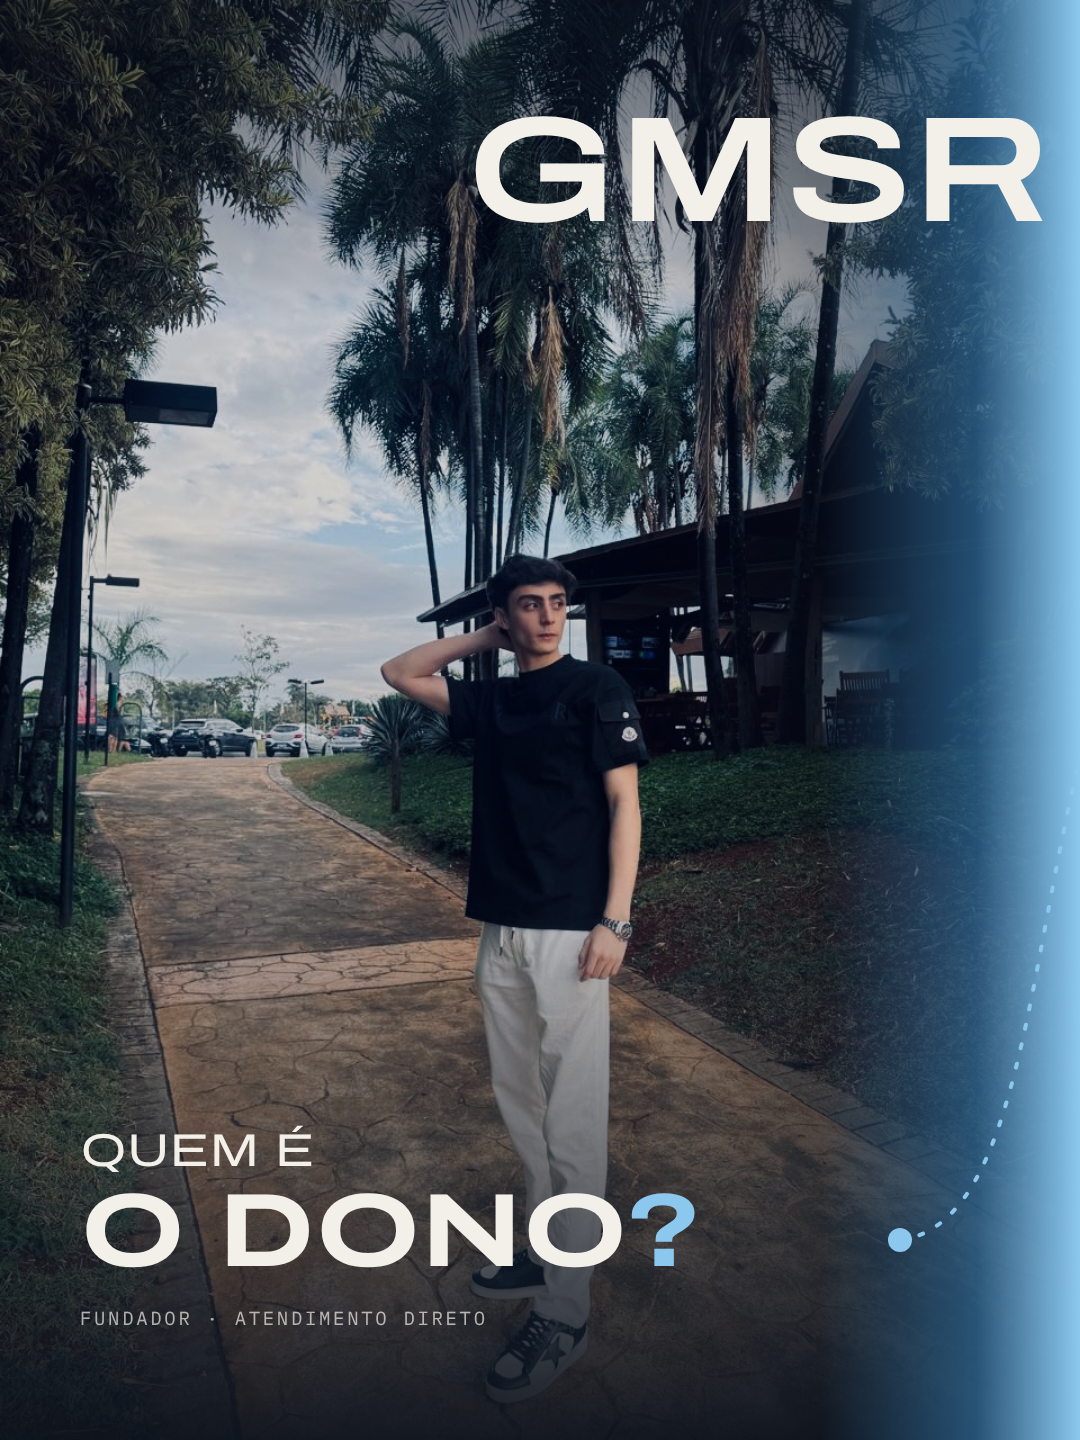
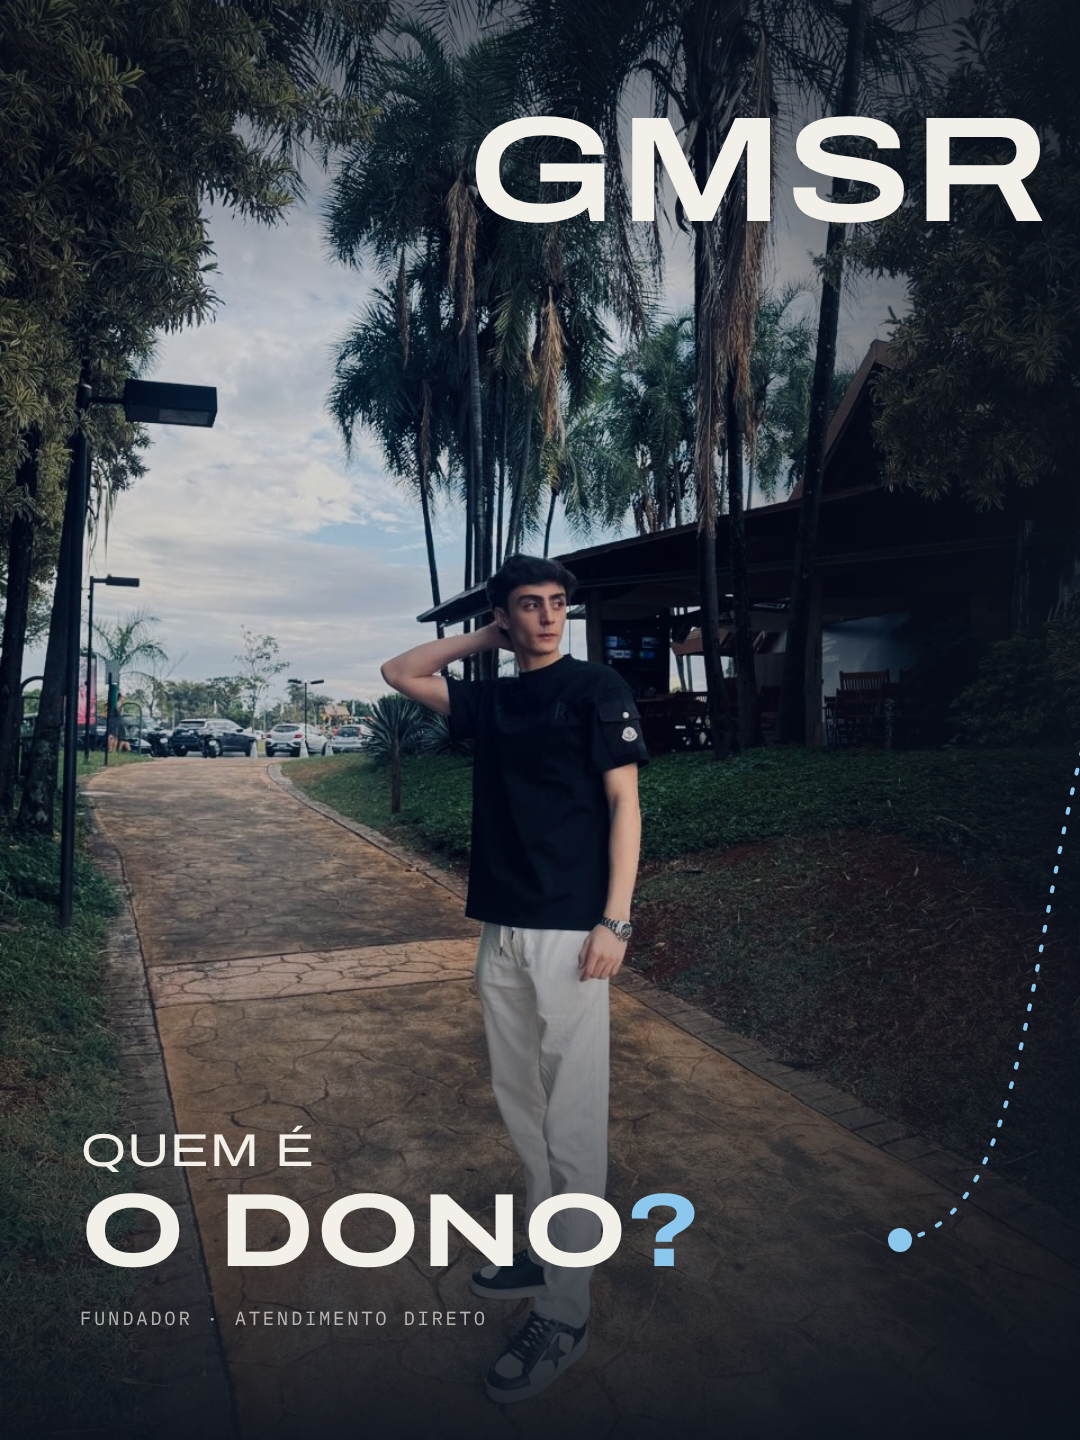
"Quem é o dono": texto do Gabriel resumido no slide 2; grade sem degradê
Claude-Session: https://claude.ai/code/session_018Rxm36svjxPgU3W8TLCnbb

Changed region(s): [[0.7944, 0.0, 1.0, 1.0]]

diff --git a/posts-grade/04-carrossel-dono/slides.html b/posts-grade/04-carrossel-dono/slides.html
@@ -127,7 +127,6 @@
 <template id="art">
   <div class="pano">
     <div class="photo blur"><img src="../../assets/fotos/dono-blur.jpg" alt=""></div>
-    <div class="edge3"></div>
 
     <!-- rota tracejada que liga o meio à direita -->
     <svg class="route" viewBox="0 0 2160 1440">
@@ -168,9 +167,11 @@
 <section class="slide tile"><div class="c3" style="background:radial-gradient(70% 55% at 30% 40%,#2C6BAE 0%,#173F6D 45%,#0B111B 100%)">
   <div class="top"><img src="../../assets/logo/gmsr-mono-branco.png" alt=""><span class="mono counter"></span></div>
   <div class="big" style="color:rgba(140,200,238,.16)">BSB</div><div class="lbl mono" style="color:#BFDDF2">A curadoria</div>
-  <div class="body" style="top:560px;right:80px">
+  <div class="body" style="top:470px;right:80px">
     <div class="w h" style="font-size:96px">Prazer,<br><em style="color:#BFDDF2">Gabriel.</em></div>
-    <p style="color:rgba(243,240,233,.88)">A GMSR é uma <b>curadoria de Brasília.</b> O Gabriel teve a ideia de criar a loja para inovar e trazer <b>peças exclusivas</b>, que não ficam disponíveis por muito tempo.</p>
+    <p style="color:rgba(243,240,233,.88)">Sou o fundador da <b>GMSR Maison</b>, marca criada em Brasília para oferecer uma experiência diferente no universo do luxo.</p>
+    <p style="color:rgba(243,240,233,.88)">Mais do que uma loja: uma <b>curadoria exclusiva</b>, com atenção a cada detalhe e atendimento personalizado.</p>
+    <p style="color:#F3F0E9;font-family:Bodoni;font-style:italic;font-size:40px;line-height:1.3;margin-top:44px">Para quem valoriza mais do que produtos: <span style="color:#BFDDF2">valoriza experiências.</span></p>
   </div>
   <div class="foot mono" style="color:rgba(243,240,233,.7)"><span>15°47′ S · 47°52′ O · Brasília</span><span>GMSR Maison</span></div>
 </div></section>

diff --git a/site-data.js b/site-data.js
@@ -19,7 +19,7 @@ window.VERSIONS = [
         "n": 2,
         "dir": "posts-grade/04-carrossel-dono",
         "title": "Carrossel · Quem é o dono",
-        "caption": "Quem é o dono da GMSR? ◆\n\nPrazer, Gabriel. A GMSR é uma curadoria de Brasília: ele teve a ideia de criar a loja para inovar e trazer peças exclusivas, que não ficam disponíveis por muito tempo.\n\n📩 Fale com a gente: @gmsr_maison\n\n.\n.\n.\n#gmsrmaison #brasilia #curadoria #boutique #modamasculina",
+        "caption": "Quem é o dono da GMSR? ◆\n\nPrazer, Gabriel. Sou o fundador da GMSR Maison, marca criada em Brasília para oferecer uma experiência diferente no universo do luxo.\n\nMais do que uma loja: uma curadoria exclusiva, com atenção a cada detalhe e atendimento personalizado.\n\nA GMSR Maison nasceu para quem valoriza mais do que produtos: valoriza experiências.\n\n📩 Fale com a gente: @gmsr_maison\n\n.\n.\n.\n#gmsrmaison #brasilia #curadoria #boutique #modamasculina",
         "slides": [
           "posts-grade/04-carrossel-dono/png/slide-01.png",
           "posts-grade/04-carrossel-dono/png/slide-02.png"

diff --git a/posts-grade/03-carrossel-processo/slides.html b/posts-grade/03-carrossel-processo/slides.html
@@ -106,7 +106,6 @@
 <template id="art">
   <div class="pano">
     <div class="photo blur"><img src="../../assets/fotos/dono-blur.jpg" alt=""></div>
-    <div class="edge3"></div>
 
     <!-- rota tracejada que liga o meio à direita -->
     <svg class="route" viewBox="0 0 2160 1440">

diff --git a/posts-grade/02-grade-mapa-processo/slides.html b/posts-grade/02-grade-mapa-processo/slides.html
@@ -84,7 +84,6 @@
 <template id="art">
   <div class="pano">
     <div class="photo blur"><img src="../../assets/fotos/dono-blur.jpg" alt=""></div>
-    <div class="edge3"></div>
 
     <!-- rota tracejada que liga o meio à direita -->
     <svg class="route" viewBox="0 0 2160 1440">

diff --git a/posts-grade/04-carrossel-dono/legenda.md b/posts-grade/04-carrossel-dono/legenda.md
@@ -11,7 +11,11 @@ O slide 1 é o post do meio da grade. Use este carrossel **no lugar** dele: no p
 
 Quem é o dono da GMSR? ◆
 
-Prazer, Gabriel. A GMSR é uma curadoria de Brasília: ele teve a ideia de criar a loja para inovar e trazer peças exclusivas, que não ficam disponíveis por muito tempo.
+Prazer, Gabriel. Sou o fundador da GMSR Maison, marca criada em Brasília para oferecer uma experiência diferente no universo do luxo.
+
+Mais do que uma loja: uma curadoria exclusiva, com atenção a cada detalhe e atendimento personalizado.
+
+A GMSR Maison nasceu para quem valoriza mais do que produtos: valoriza experiências.
 
 📩 Fale com a gente: @gmsr_maison
 
